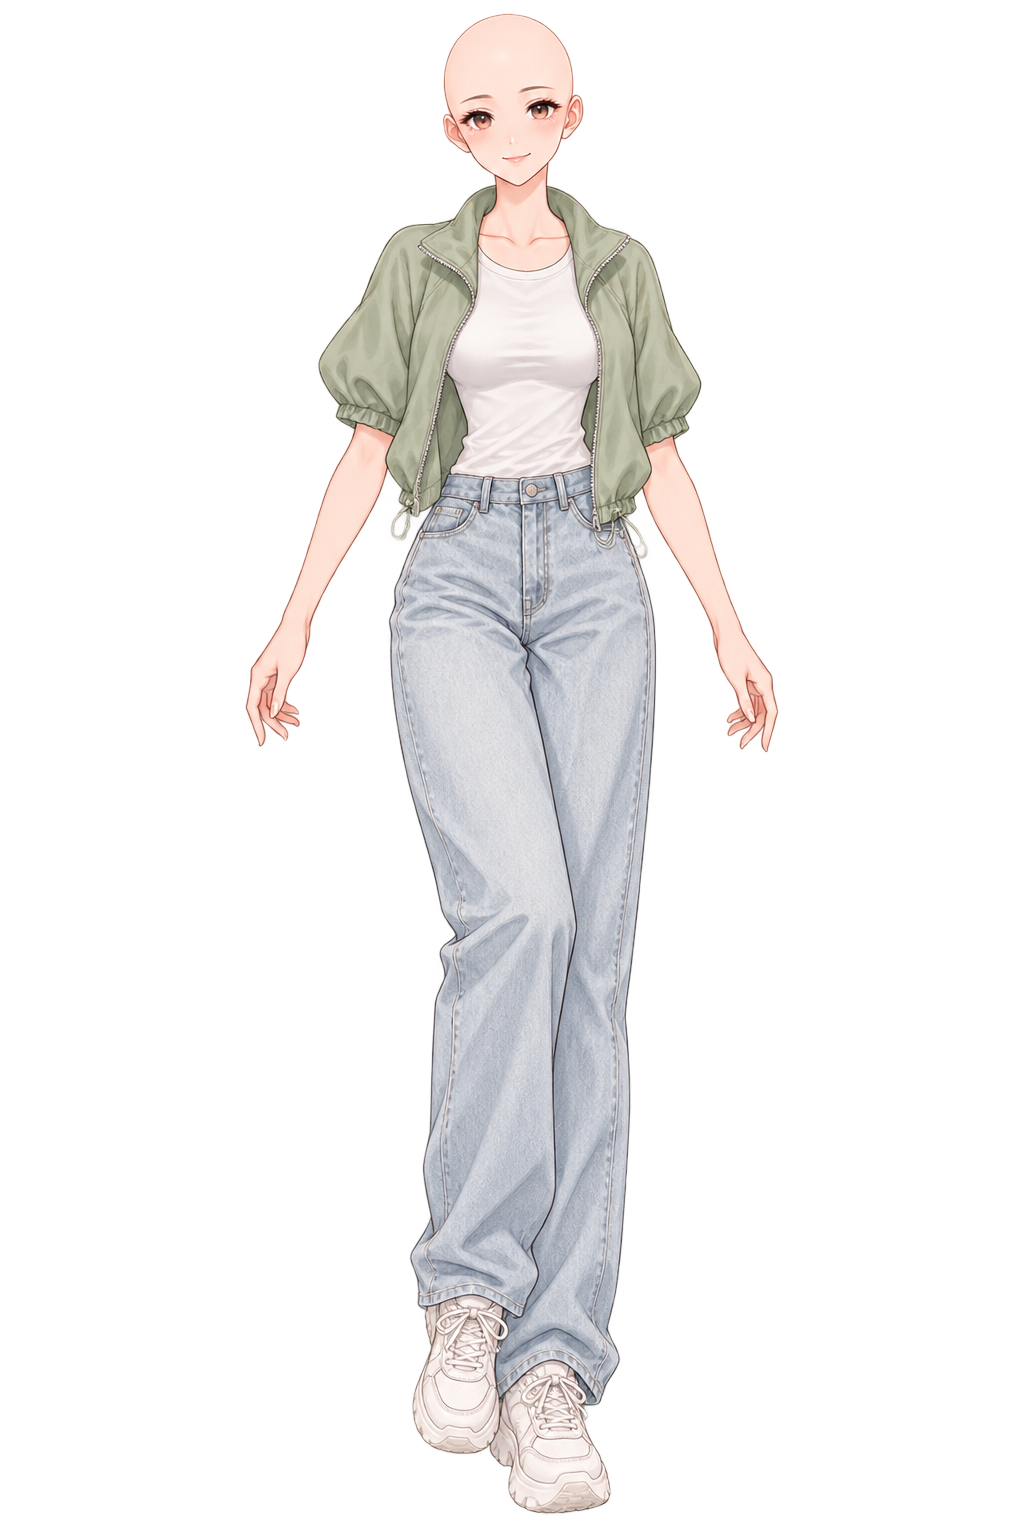
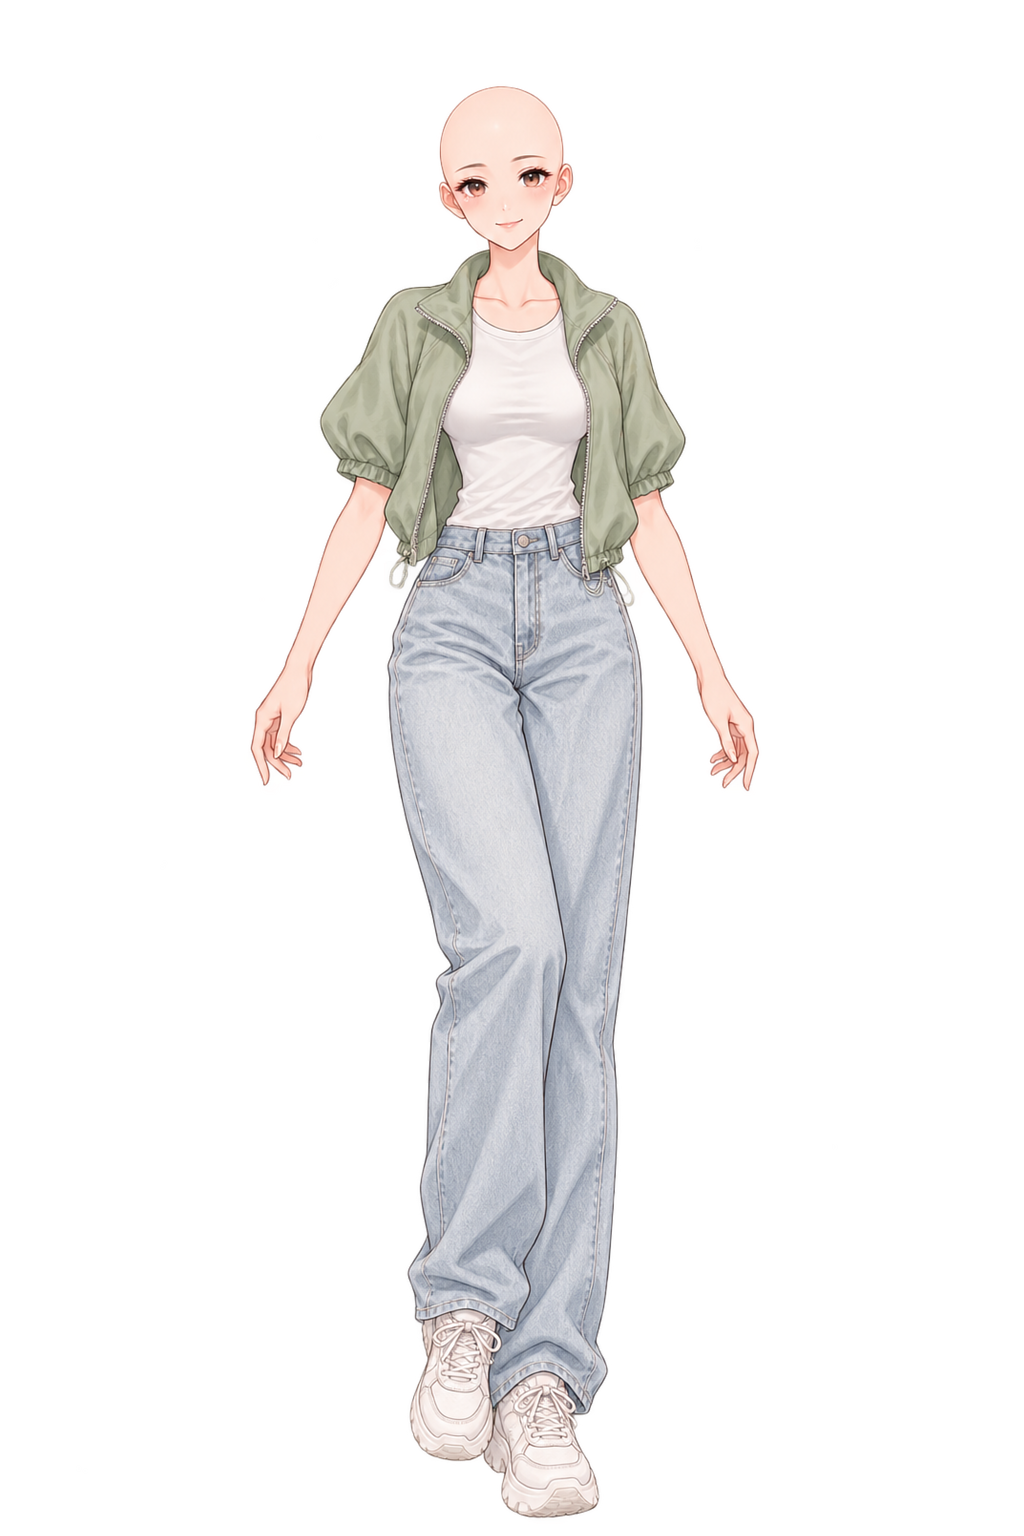
preview: apply aligned owner outfits v95

Changed region(s): [[0.2188, 0.0, 0.7812, 1.0]]

diff --git a/src/owner-avatar.js b/src/owner-avatar.js
@@ -3,7 +3,7 @@ import{OWNER_CANVAS,ownerLayerAnchorSpec}from'./owner-asset-metadata.js?v=94';
 const ROOT='./assets/owner/';
 const OUTFIT_COUNT=13;
 const TRYON_HAIR_PATH='hair/INITIAL_TRYON_HAIR_ONLY.png';
-const TRYON_HAIR_STYLE='z-index:20;inset:auto;left:39.2578125%;top:.1302083%;width:18.5546875%;height:17.7734375%;max-width:none;max-height:none;object-fit:fill;object-position:0 0;transform:none;filter:none';
+const TRYON_HAIR_STYLE='z-index:20;inset:auto;left:39.74609375%;top:-.2604167%;width:17.08984375%;height:16.40625%;max-width:none;max-height:none;object-fit:fill;object-position:0 0;transform:none;filter:none';
 
 export const OWNER_HAIR_NAMES=['ショートボブ','ナチュラルボブ','ミディアムストレート','ミディアムウェーブ','エアリーミディアム','ロングストレート','ロングウェーブ','サイドポニー','ハーフアップ','ルーズアップ','ツインブレイド','サイドブレイド','レイヤーミディアム','スーパーロング','エレガントアップ','リボンブレイド','ソフトカール'];
 export const OWNER_HAIR_COLORS=[['ブラック','#2f2b2d','brightness(.55) saturate(.75)'],['ダークブラウン','#5b4636','brightness(.72) saturate(.9)'],['モカブラウン','#795c50','sepia(.2) brightness(.82)'],['チョコレートブラウン','#69463c','sepia(.28) brightness(.72) saturate(1.05)'],['チェスナット','#855f4d','sepia(.35) brightness(.86) saturate(1.08)'],['ミルクティーベージュ','#aa8d7e','sepia(.25) brightness(1.08) saturate(.72)'],['グレージュ','#857873','grayscale(.24) brightness(.91)'],['アッシュブラウン','#726561','grayscale(.18) brightness(.78)'],['ピンクブラウン','#9a6467','sepia(.22) hue-rotate(318deg) saturate(1.08)'],['ラベンダーブラウン','#765e70','sepia(.16) hue-rotate(280deg) saturate(.9)'],['ワインブラウン','#713f49','sepia(.2) hue-rotate(320deg) saturate(1.25) brightness(.76)'],['ハイトーンベージュ','#bea190','sepia(.18) brightness(1.18) saturate(.68)']];
@@ -42,7 +42,7 @@ export function ownerHairLabel(value){const a=normalizeOwnerAssetAppearance({hai
 export function ownerColorLabel(value){const a=normalizeOwnerAssetAppearance({hairColor:value});return OWNER_HAIR_COLORS[Number(a.hairColor.slice(-2))-1]?.[0]||OWNER_HAIR_COLORS[1][0]}
 
 export function ownerLayerTransform(slot,value){if(slot!=='hair')return{x:0,y:0,scaleX:1,scaleY:1,originX:.5,originY:.5};const fit=ownerLayerAnchorSpec('hair',value),{source,target}=fit;return{x:(target.x-source.x)/OWNER_CANVAS.width,y:(target.y-source.y)/OWNER_CANVAS.height,scaleX:fit.scaleX,scaleY:fit.scaleY,originX:source.x/OWNER_CANVAS.width,originY:source.y/OWNER_CANVAS.height}}
-const img=(path,cls,style='',transform=null)=>{if(!path)return'';const c=transform?`--layer-x:${transform.x*100}%;--layer-y:${transform.y*100}%;--layer-scale-x:${transform.scaleX};--layer-scale-y:${transform.scaleY};--layer-origin-x:${transform.originX*100}%;--layer-origin-y:${transform.originY*100}%`:'',inline=[style,c].filter(Boolean).join(';');return`<img class="owner-layer ${cls}" src="${ROOT}${path}?v=94" alt="" draggable="false" ${inline?`style="${inline}"`:''} onerror="this.hidden=true">`};
+const img=(path,cls,style='',transform=null)=>{if(!path)return'';const c=transform?`--layer-x:${transform.x*100}%;--layer-y:${transform.y*100}%;--layer-scale-x:${transform.scaleX};--layer-scale-y:${transform.scaleY};--layer-origin-x:${transform.originX*100}%;--layer-origin-y:${transform.originY*100}%`:'',inline=[style,c].filter(Boolean).join(';');return`<img class="owner-layer ${cls}" src="${ROOT}${path}?v=95" alt="" draggable="false" ${inline?`style="${inline}"`:''} onerror="this.hidden=true">`};
 
 export function renderOwnerAvatar(appearance={},options={}){
  const a=normalizeOwnerAssetAppearance(appearance),n=Number(a.hairColor.slice(-2))-1,filter=OWNER_HAIR_COLORS[n]?.[2]||'';
@@ -50,7 +50,7 @@ export function renderOwnerAvatar(appearance={},options={}){
  layers.push(img(`outfits/${a.outfit}.png`,'owner-outfit'));
  // Fashion preview never replaces or moves the selected outfit's face/neck/body.
  // A dedicated transparent crop containing only the initial up-do hair is placed
- // at the source-canvas coordinates (x=402,y=2,w=190,h=273).
+ // at the shared preview coordinates (x=407,y=-4,w=175,h=252).
  if(a.outfit!=='OUTFIT_01'){
   if(options.fashionPreview)layers.push(img(TRYON_HAIR_PATH,'owner-hair owner-hair-initial',TRYON_HAIR_STYLE));
   else layers.push(img(`hair/styles/${a.hairStyle}.png`,'owner-hair owner-hair-generated',`filter:${filter}`,ownerLayerTransform('hair',a.hairStyle)));

diff --git a/index.html b/index.html
@@ -1,1 +1,1 @@
-<!doctype html><html lang="ja"><head><meta charset="UTF-8"><meta name="viewport" content="width=device-width,initial-scale=1,viewport-fit=cover"><meta name="theme-color" content="#fff9f6"><meta name="mobile-web-app-capable" content="yes"><meta name="apple-mobile-web-app-capable" content="yes"><meta name="apple-mobile-web-app-status-bar-style" content="default"><meta name="apple-mobile-web-app-title" content="Salon Story"><meta name="format-detection" content="telephone=no"><link rel="manifest" href="./manifest.webmanifest?v=94"><link rel="stylesheet" href="./src/style.css?v=94"><link rel="stylesheet" href="./src/v02.css?v=94"><link rel="stylesheet" href="./src/v03.css?v=94"><link rel="stylesheet" href="./src/v04.css?v=94"><link rel="stylesheet" href="./src/v05.css?v=94"><link rel="stylesheet" href="./src/v06.css?v=94"><link rel="stylesheet" href="./src/v61.css?v=94"><link rel="stylesheet" href="./src/v62.css?v=94"><link rel="stylesheet" href="./src/owner-avatar.css?v=94"><script type="importmap">{"imports":{"./src/owner-avatar.js":"./src/owner-avatar.js?v=94","./src/owner-asset-metadata.js":"./src/owner-asset-metadata.js?v=94"}}</script><title>Salon Story Ver.0.6 v94 - わたしのサロン経営</title></head><body><div id="app"><div style="padding:40px 20px;text-align:center;font-family:sans-serif;color:#76564d">Salon Storyを読み込んでいます…</div></div><script type="module" src="./src/game-v03.js?v=94"></script></body></html>
+<!doctype html><html lang="ja"><head><meta charset="UTF-8"><meta name="viewport" content="width=device-width,initial-scale=1,viewport-fit=cover"><meta name="theme-color" content="#fff9f6"><meta name="mobile-web-app-capable" content="yes"><meta name="apple-mobile-web-app-capable" content="yes"><meta name="apple-mobile-web-app-status-bar-style" content="default"><meta name="apple-mobile-web-app-title" content="Salon Story"><meta name="format-detection" content="telephone=no"><link rel="manifest" href="./manifest.webmanifest?v=95"><link rel="stylesheet" href="./src/style.css?v=95"><link rel="stylesheet" href="./src/v02.css?v=95"><link rel="stylesheet" href="./src/v03.css?v=95"><link rel="stylesheet" href="./src/v04.css?v=95"><link rel="stylesheet" href="./src/v05.css?v=95"><link rel="stylesheet" href="./src/v06.css?v=95"><link rel="stylesheet" href="./src/v61.css?v=95"><link rel="stylesheet" href="./src/v62.css?v=95"><link rel="stylesheet" href="./src/owner-avatar.css?v=95"><script type="importmap">{"imports":{"./src/owner-avatar.js":"./src/owner-avatar.js?v=95","./src/owner-asset-metadata.js":"./src/owner-asset-metadata.js?v=95"}}</script><title>Salon Story Ver.0.6 v95 - わたしのサロン経営</title></head><body><div id="app"><div style="padding:40px 20px;text-align:center;font-family:sans-serif;color:#76564d">Salon Storyを読み込んでいます…</div></div><script type="module" src="./src/game-v03.js?v=95"></script></body></html>

diff --git a/sw.js b/sw.js
@@ -1,1 +1,1 @@
-const CACHE='salon-story-v75';const ASSETS=['./?v=75','./index.html?v=75','./src/game-v03.js?v=75','./src/v61-systems.js?v=75','./src/v62-systems.js?v=75','./src/data/v62.js?v=75','./src/style.css?v=75','./src/v02.css?v=75','./src/v03.css?v=75','./src/v04.css?v=75','./src/v05.css?v=75','./src/v06.css?v=75','./src/v61.css?v=75','./src/v62.css?v=75','./src/owner-avatar.css?v=75','./src/owner-avatar.js?v=75','./src/owner-asset-metadata.js?v=75','./assets/owner/ownerManifest.json?v=75','./manifest.webmanifest?v=75'];self.addEventListener('install',e=>{self.skipWaiting();e.waitUntil(caches.open(CACHE).then(c=>c.addAll(ASSETS)))});self.addEventListener('activate',e=>{e.waitUntil(Promise.all([self.clients.claim(),caches.keys().then(keys=>Promise.all(keys.filter(k=>k!==CACHE).map(k=>caches.delete(k))))]))});self.addEventListener('fetch',e=>{if(e.request.method==='GET')e.respondWith(fetch(e.request,{cache:'no-store'}).then(r=>{const copy=r.clone();caches.open(CACHE).then(c=>c.put(e.request,copy));return r}).catch(()=>caches.match(e.request)))})
+const CACHE='salon-story-v95';const ASSETS=['./?v=95','./index.html?v=95','./src/game-v03.js?v=95','./src/v61-systems.js?v=95','./src/v62-systems.js?v=95','./src/data/v62.js?v=95','./src/style.css?v=95','./src/v02.css?v=95','./src/v03.css?v=95','./src/v04.css?v=95','./src/v05.css?v=95','./src/v06.css?v=95','./src/v61.css?v=95','./src/v62.css?v=95','./src/owner-avatar.css?v=95','./src/owner-avatar.js?v=95','./src/owner-asset-metadata.js?v=95','./assets/owner/ownerManifest.json?v=95','./manifest.webmanifest?v=95'];self.addEventListener('install',e=>{self.skipWaiting();e.waitUntil(caches.open(CACHE).then(c=>c.addAll(ASSETS)))});self.addEventListener('activate',e=>{e.waitUntil(Promise.all([self.clients.claim(),caches.keys().then(keys=>Promise.all(keys.filter(k=>k!==CACHE).map(k=>caches.delete(k))))]))});self.addEventListener('fetch',e=>{if(e.request.method==='GET')e.respondWith(fetch(e.request,{cache:'no-store'}).then(r=>{const copy=r.clone();caches.open(CACHE).then(c=>c.put(e.request,copy));return r}).catch(()=>caches.match(e.request)))})

diff --git a/src/v61-systems.js b/src/v61-systems.js
@@ -109,4 +109,4 @@ export function getTreatmentChoices(customer,state,staff,availableServices=[]){
 export function deriveOwnerAppearance(state){const player=state?.player||{},equipped=state?.wardrobe?.equipped||{};return normalizeOwnerAssetAppearance({...DEFAULT_OWNER_APPEARANCE,skin:player.skin,hairStyle:player.hairStyle,hairColor:player.hairColor,makeup:state?.wardrobe?.makeup,tops:equipped.tops,bottoms:equipped.bottoms,dress:equipped.dresses,outer:equipped.outer,shoes:equipped.shoes,bag:equipped.bags,accessories:equipped.accessories})}
 export function normalizeOwnerAppearance(appearance,state){return normalizeOwnerAssetAppearance({...deriveOwnerAppearance(state),...(appearance||{})})}
 export function appearanceToLegacy(state,appearance){const a=normalizeOwnerAppearance(appearance,state);state.ownerAppearance={...a};state.player={...(state.player||{}),skin:a.skin,hairStyle:a.hairStyle,hairColor:a.hairColor};return a}
-export function previewFashionAppearance(current,item){const next={...normalizeOwnerAssetAppearance(current)};const key={dresses:'dress',bags:'bag'}[item.category]||item.category;next[key]=ownerAssetForItem(item);if(item.category==='dresses'){next.tops=null;next.bottoms=null}else if(['tops','bottoms'].includes(item.category))next.dress=null;next.hairStyle='HAIR_15';return next}
+export function previewFashionAppearance(current,item){const next={...normalizeOwnerAssetAppearance(current)},asset=ownerAssetForItem(item);if(!asset)return next;next.outfit=asset;next.dress=asset;next.tops=null;next.bottoms=null;next.outer=null;next.shoes=null;next.bag=null;next.accessories=null;next.hairStyle='HAIR_15';return next}
